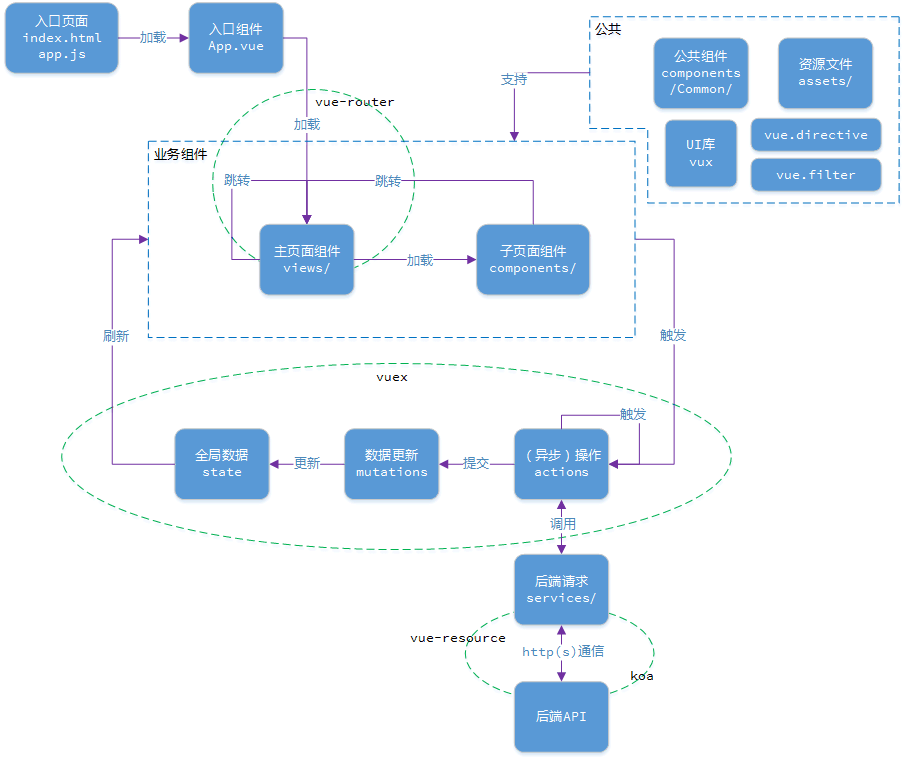
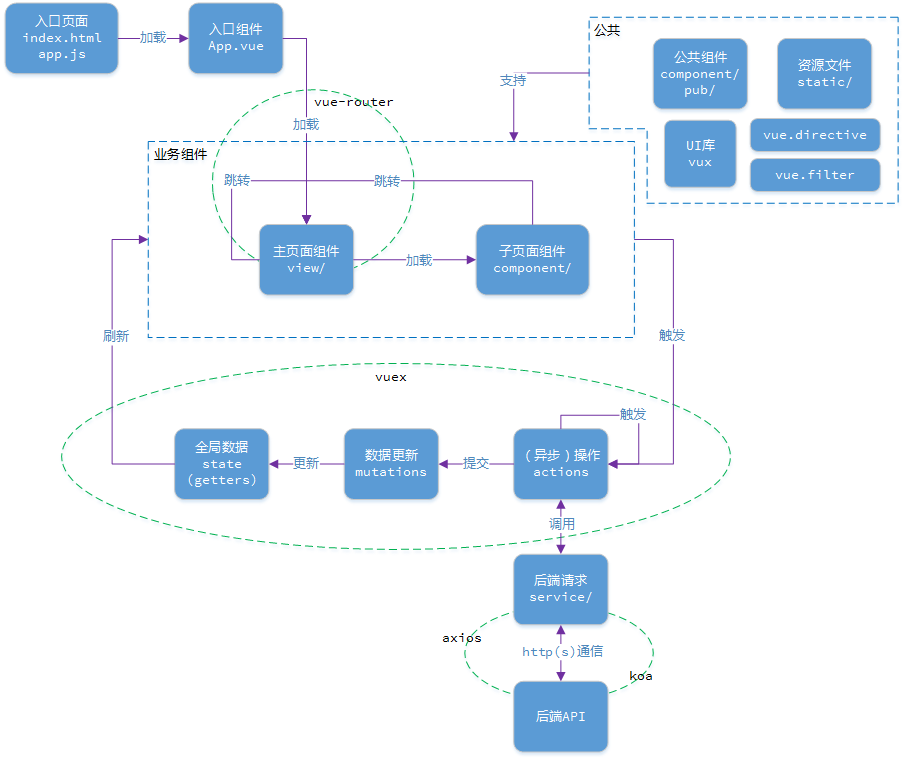
1、批处理启动服务器 2、文件调整

diff --git a/App/build/dev-server.js b/App/build/dev-server.js
@@ -2,7 +2,7 @@ require('./check-versions')()
 
 var config = require('../config')
 if (!process.env.NODE_ENV) {
-  process.env.NODE_ENV = JSON.parse(config.dev.env.NODE_ENV)
+    process.env.NODE_ENV = JSON.parse(config.dev.env.NODE_ENV)
 }
 
 var opn = require('opn')
@@ -14,38 +14,38 @@ var webpackConfig = require('./webpack.dev.conf')
 
 // default port where dev server listens for incoming traffic
 var port = process.env.PORT || config.dev.port
-// automatically open browser, if not set will be false
+    // automatically open browser, if not set will be false
 var autoOpenBrowser = !!config.dev.autoOpenBrowser
-// Define HTTP proxies to your custom API backend
-// https://github.com/chimurai/http-proxy-middleware
+    // Define HTTP proxies to your custom API backend
+    // https://github.com/chimurai/http-proxy-middleware
 var proxyTable = config.dev.proxyTable
 
 var app = express()
 var compiler = webpack(webpackConfig)
 
 var devMiddleware = require('webpack-dev-middleware')(compiler, {
-  publicPath: webpackConfig.output.publicPath,
-  quiet: true
+    publicPath: webpackConfig.output.publicPath,
+    quiet: true
 })
 
 var hotMiddleware = require('webpack-hot-middleware')(compiler, {
-  log: () => {}
-})
-// force page reload when html-webpack-plugin template changes
-compiler.plugin('compilation', function (compilation) {
-  compilation.plugin('html-webpack-plugin-after-emit', function (data, cb) {
-    hotMiddleware.publish({ action: 'reload' })
-    cb()
-  })
+        log: () => {}
+    })
+    // force page reload when html-webpack-plugin template changes
+compiler.plugin('compilation', function(compilation) {
+    compilation.plugin('html-webpack-plugin-after-emit', function(data, cb) {
+        hotMiddleware.publish({ action: 'reload' })
+        cb()
+    })
 })
 
 // proxy api requests
-Object.keys(proxyTable).forEach(function (context) {
-  var options = proxyTable[context]
-  if (typeof options === 'string') {
-    options = { target: options }
-  }
-  app.use(proxyMiddleware(options.filter || context, options))
+Object.keys(proxyTable).forEach(function(context) {
+    var options = proxyTable[context]
+    if (typeof options === 'string') {
+        options = { target: options }
+    }
+    app.use(proxyMiddleware(options.filter || context, options))
 })
 
 // handle fallback for HTML5 history API
@@ -64,19 +64,19 @@ app.use(staticPath, express.static('./static'))
 
 var uri = 'http://localhost:' + port
 
-devMiddleware.waitUntilValid(function () {
-  console.log('> Listening at ' + uri + '\n')
+devMiddleware.waitUntilValid(function() {
+    console.log('> 前端服务器已启动，端口号：' + port + '\n')
 })
 
-module.exports = app.listen(port, function (err) {
-  if (err) {
-    console.log(err)
-    return
-  }
+module.exports = app.listen(port, function(err) {
+    if (err) {
+        console.log(err)
+        return
+    }
 
-  // when env is testing, don't need open it
+    // when env is testing, don't need open it
 
-  if (autoOpenBrowser && process.env.NODE_ENV !== 'testing') {
-    opn(uri)
-  }
+    if (autoOpenBrowser && process.env.NODE_ENV !== 'testing') {
+        opn(uri)
+    }
 })

diff --git a/App/src/filter/numberFormatter.js b/App/src/filter/numberFormatter.js
@@ -1,6 +1,3 @@
-
-
-
 /**
  * 格式化数值
  * @param  {Number} number 待格式化的数值
@@ -8,18 +5,21 @@
  * @return {String}
  */
 export default (number, decimal) => {
-  let m = number
-  let dec = decimal || 0
-  if (isNaN(m)) m = 0
-  var x = Math.pow(10, dec)
-  m = Math.round(m * x) / x
-  var s = m.toString()
+    let m = number
+    let dec = decimal || 0
 
-  let l = s.split('.')[0].split('').reverse().join('')
-  let r = s.split('.')[1] || ''
-  let r1 = r.length < dec ? (r + '000000'.substr(0, dec - r.length)) : r
-  let r2 = dec > 0 ? '.' + r1 : ''
-  let t = l.replace(/\d{3}(?=\d)/g, '$&,').split('').reverse().join('')
+    if (isNaN(m)) {
+        m = 0
+    }
 
-  return t + r2
+    let x = Math.pow(10, dec)
+    let s = (Math.round(m * x) / x).toString()
+
+    let l = s.split('.')[0].split('').reverse().join('')
+    let r = s.split('.')[1] || ''
+    let r1 = r.length < dec ? (r + '000000'.substr(0, dec - r.length)) : r
+    let r2 = dec > 0 ? '.' + r1 : ''
+    let t = l.replace(/\d{3}(?=\d)/g, '$&,').split('').reverse().join('')
+
+    return t + r2
 }

diff --git a/App/src/component/pub/navbar.vue b/App/src/component/pub/navbar.vue
@@ -1,0 +1,26 @@
+<template>
+    <div class="nav-header">
+        <div class="left">
+            <slot name='left'>
+                <a class="btn-link glyphicon glyphicon-chevron-left" href='javascript:window.history.back()' v-if="showBack"></a>
+            </slot>
+        </div>
+        <div class="center">
+            {{title}}
+        </div>
+        <div class="right">
+            <slot></slot>
+        </div>
+    </div>
+</template>
+<script>
+    export default {
+        props: ['title', 'showBack'],
+        components: {},
+        created() {},
+        data() {
+            return {}
+        },
+        methods: {}
+    }
+</script>

diff --git a/App/src/service/http/init.js b/App/src/service/http/init.js
@@ -4,9 +4,9 @@ import router from 'ROUTER/'
 // 请求拦截
 axios.interceptors.request.use((config) => {
     // 身份验证
-    config.headers.get('Authorization') = sessionStorage.token || ''
+    config.headers.set('Authorization', sessionStorage.token || '')
 
-    return config;
+    return config
 }, (err) => {
     return Promise.reject(err)
 })
@@ -22,7 +22,7 @@ axios.interceptors.response.use((res) => {
 
     return res
 }, (err) => {
-    if (err.response.status === "401") {
+    if (err.response.status === '401') {
         sessionStorage.removeItem('token')
 
         alert('身份验证失败，请重新登陆')

diff --git a/Server/app.js b/Server/app.js
@@ -6,7 +6,7 @@ const koaLogger = require('koa-logger')
 const cors = require('koa-cors')
 const path = require('path')
 
-const { config } = require('./config')
+const config = require('./config')
 const routers = require('./router/index')
 
 const app = new Koa()
@@ -37,4 +37,4 @@ app.use(routers.routes()).use(routers.allowedMethods())
 
 // 监听启动端口
 app.listen(config.port)
-console.log(`服务器已启动，端口号：${config.port}`)
+console.log(`> 后端服务器已启动，端口号：${config.port}`)

diff --git a/App/src/service/http/config.js b/App/src/service/http/config.js
@@ -11,6 +11,6 @@ export const config = {
     // 根据Http响应状态码返回不同Promise类型
     // 如果 = true/null/undefined，返回resolve，否则返回reject
     validateStatus: function(status) {
-        return status >= 200 && status < 300; // default
+        return status >= 200 && status < 300 // default
     }
 }

diff --git a/App/src/app.js b/App/src/app.js
@@ -8,8 +8,8 @@ import FastClick from 'fastclick'
 import router from './router/'
 import store from './store/'
 import App from 'COMPONENT/App'
-import './directives/'
-import './filters/'
+import './directive/'
+import './filter/'
 import 'SERVICE/http/init'
 
 Vue.use(VueRouter)

diff --git a/App/src/view/Index.vue b/App/src/view/Index.vue
@@ -60,7 +60,7 @@
 </template>
 
 <script>
-    import Navbar from 'COMPONENT/Navbar/'
+    import Navbar from 'COMPONENT/pub/navbar'
     import {
         mapGetters
     } from 'vuex'

diff --git a/Server/config.js b/Server/config.js
@@ -1,4 +1,6 @@
-export const config = {
+const config = {
     // 启动端口
     port: 8004
 }
+
+module.exports = config
